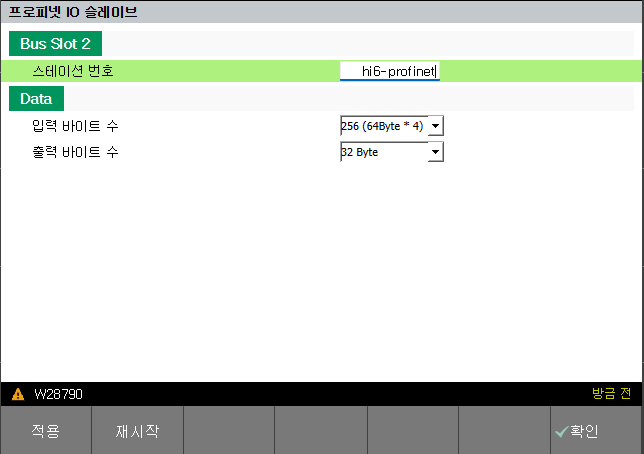
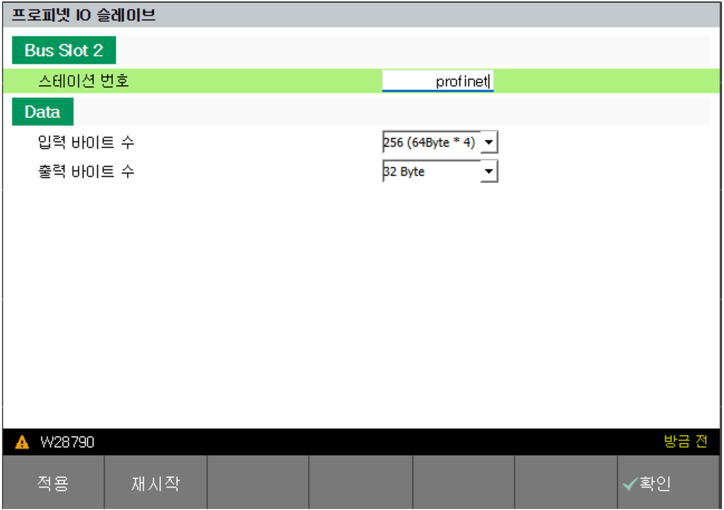
목차 오류 및 그림 수정

Changed region(s): [[0.0, 0.0, 1.0, 1.0], [0.528, 0.2467, 0.7143, 0.37]]

diff --git a/2-ethernet-ip/4-scanner/2-settings.md b/2-ethernet-ip/4-scanner/2-settings.md
@@ -77,13 +77,13 @@
 
 {% hint style="info" %}
    - 연결 예시는 아래 매뉴얼을 참고해주십시오.    
-   - "[**2.3.3.1 외부 Adapter 장치 연결 - Crevis Remote IO**](3-connect-adapter/1-crevis.md)"
+   - "[**2.4.3.1 외부 Adapter 장치 연결 - Crevis Remote IO**](3-connect-adapter/1-crevis.md)"
 
-   - "[**2.3.3.2 외부 Adapter 장치 연결 - Wago Remote IO**](3-connect-adapter/2-wago.md)"
+   - "[**2.4.3.2 외부 Adapter 장치 연결 - Wago Remote IO**](3-connect-adapter/2-wago.md)"
 
-   - "[**2.3.3.3 외부 Adapter 장치 연결 - Hilscher CIFX PCI EtherNet/IP Adapter**](3-connect-adapter/3-pci.md)"
+   - "[**2.4.3.3 외부 Adapter 장치 연결 - Hilscher CIFX PCI EtherNet/IP Adapter**](3-connect-adapter/3-pci.md)"
 
-   - "[**2.3.3.4 외부 Adapter 장치 연결 - Baumer OM-70**](3-connect-adapter/4-baumer.md)"  
+   - "[**2.4.3.4 외부 Adapter 장치 연결 - Baumer OM-70**](3-connect-adapter/4-baumer.md)"  
 {% endhint %}
 
 <br>
